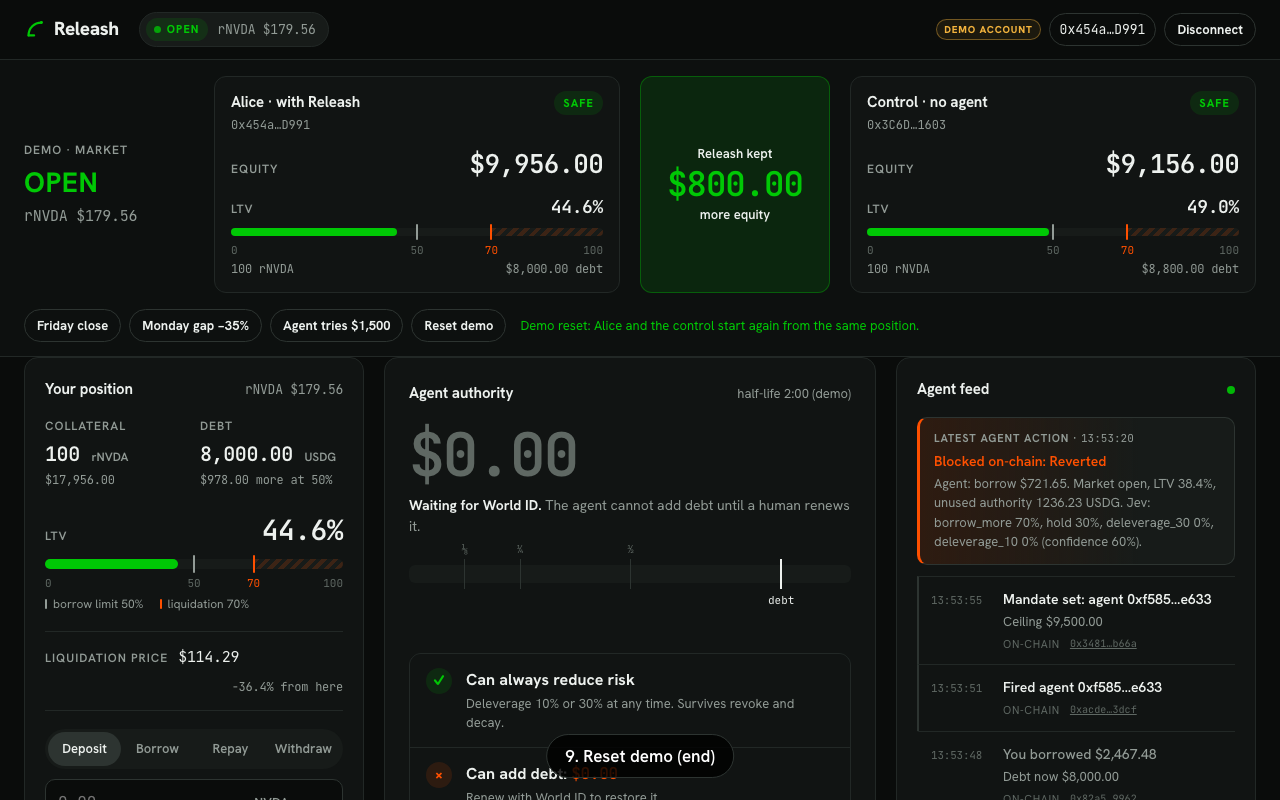
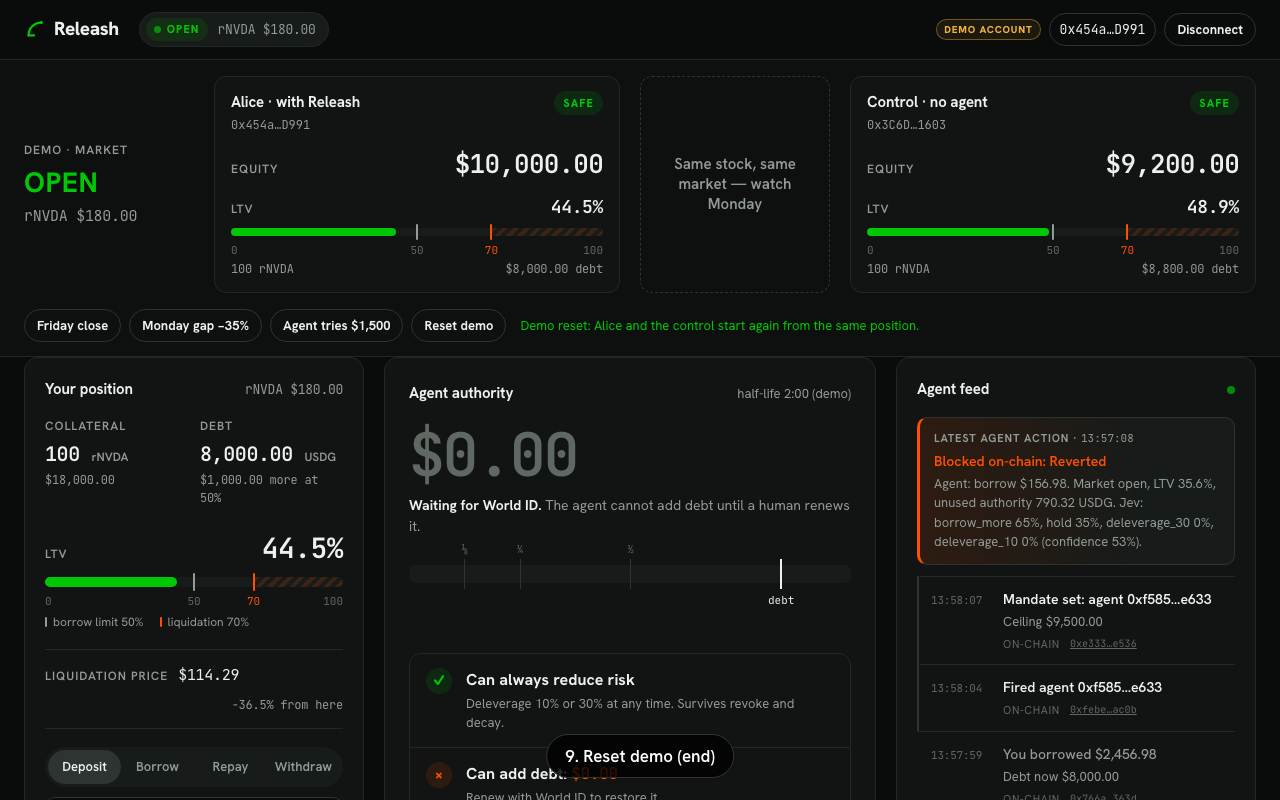
web: equity delta appears only after the control is liquidated; neutral label before

diff --git a/web/src/components/DemoStrip.tsx b/web/src/components/DemoStrip.tsx
@@ -144,6 +144,10 @@ export function DemoStrip({ owner, state }: { owner?: Address; state?: VaultStat
   const eqC = equityOf(control.data);
   const hasBoth = eqA !== undefined && eqC !== undefined && !!aliceState?.position.collateral && !!control.data?.position.collateral;
   const delta = hasBoth ? eqA! - eqC! : 0;
+  // The number only means something once the control has been liquidated; before that it is starting-debt
+  // differences and pool slippage, which is not the story.
+  const controlLiquidated = liquidationsSinceOpen(controlEvents.data).length > 0;
+  const showDelta = hasBoth && controlLiquidated && delta > 0;
 
   const busy = !!pending;
   const noKey = !DEMO_KEY;
@@ -156,23 +160,15 @@ export function DemoStrip({ owner, state }: { owner?: Address; state?: VaultStat
           <span className="quiet num">rNVDA {aliceState ? fmtUsd(px8(aliceState.price8)) : "—"}</span>
         </div>
         <Side title="Alice · with Releash" tag="releash" owner={alice} state={aliceState} events={aliceEvents.data} />
-        <div className={`delta ${hasBoth ? (delta > 0 ? "delta--up" : "delta--down") : ""}`} data-testid="equity-delta" aria-live="polite">
-          {hasBoth ? (
-            delta > 0 ? (
-              <>
-                <span>Releash kept</span>
-                <strong className="num">{fmtUsd(delta)}</strong>
-                <span>more equity</span>
-              </>
-            ) : (
-              <>
-                <span>De-risking cost so far</span>
-                <strong className="num">{fmtUsd(-delta)}</strong>
-                <span>pool slippage</span>
-              </>
-            )
+        <div className={`delta ${showDelta ? "delta--up" : ""}`} data-testid="equity-delta" aria-live="polite">
+          {showDelta ? (
+            <>
+              <span>Releash kept</span>
+              <strong className="num">{fmtUsd(delta)}</strong>
+              <span>more equity</span>
+            </>
           ) : (
-            <span className="quiet">Equity difference appears once both positions exist.</span>
+            <span className="delta__wait">Same stock, same market — watch Monday</span>
           )}
         </div>
         <Side title="Control · no agent" tag="control" owner={controlOwner} state={control.data} events={controlEvents.data} />

diff --git a/web/src/styles.css b/web/src/styles.css
@@ -311,7 +311,7 @@ main { max-width: 1320px; margin: 0 auto; padding: 0 24px 48px; }
 .delta--up { background: var(--green-soft); border: 1px solid rgba(0, 200, 5, 0.35); }
 .delta--up strong { color: var(--green); font-size: 34px; }
 .delta--up span { color: var(--text); font-weight: 600; }
-.delta--down { border: 1px dashed var(--line-2); }
+.delta:not(.delta--up) { border: 1px dashed var(--line-2); }
 @media (max-width: 1100px) { .demostrip__inner { grid-template-columns: 1fr 1fr; } .demostrip__market, .delta { grid-column: 1 / -1; } .delta { grid-auto-flow: column; gap: 10px; align-items: baseline; } }
 @media (max-width: 720px) { .demostrip__inner { grid-template-columns: 1fr; } .delta { grid-auto-flow: row; } }
 .feed__pin { margin: 0 0 12px; padding: 12px 14px; border-radius: 10px; background: var(--surface-2); border: 1px solid var(--line-2); border-left: 3px solid var(--green); animation: rise 0.35s both; }
@@ -319,3 +319,4 @@ main { max-width: 1320px; margin: 0 auto; padding: 0 24px 48px; }
 .feed__pin--bad .feed__title { color: var(--red); }
 .feed__pin-label { font-size: 11px; text-transform: uppercase; letter-spacing: 0.08em; color: var(--muted); font-weight: 700; margin-bottom: 4px; }
 .feed__pin-label time { text-transform: none; letter-spacing: 0; font-weight: 400; }
+.delta__wait { font-size: 15px; font-weight: 600; color: var(--muted); line-height: 1.35; }

diff --git a/web/rehearsal/REPORT.md b/web/rehearsal/REPORT.md
@@ -60,3 +60,9 @@ manual trigger was needed.
 - **Latest agent action is pinned** at the top of the feed. "Confirmed on-chain" clears after 6 s. Reset demo shows an
   elapsed-seconds counter.
 - The 01–09 screenshots for beats 2, 3, 6, 7 and 9 now show the new UI. Driver: `rehearsal.mjs`; see its header.
+
+## Delta gated on liquidation (13:55–13:58 JST, `BEATS=2,3,6,7,9`; all pass)
+The delta column shows no number until the control has a `Liquidated` event after its latest borrow. Before that it
+reads "Same stock, same market — watch Monday" (`06-friday-close.png`). After the gap it reads "Releash kept
+$1,907.62 more equity" (`07-monday-gap-35.png`: Alice 86.55 × 116.71 − 5,543.02 = $4,558.62; control $2,651.00, lost
+39.59 rNVDA). The driver now asserts both states. The demo was reset at the end: Alice debt 8,000, price 180.
